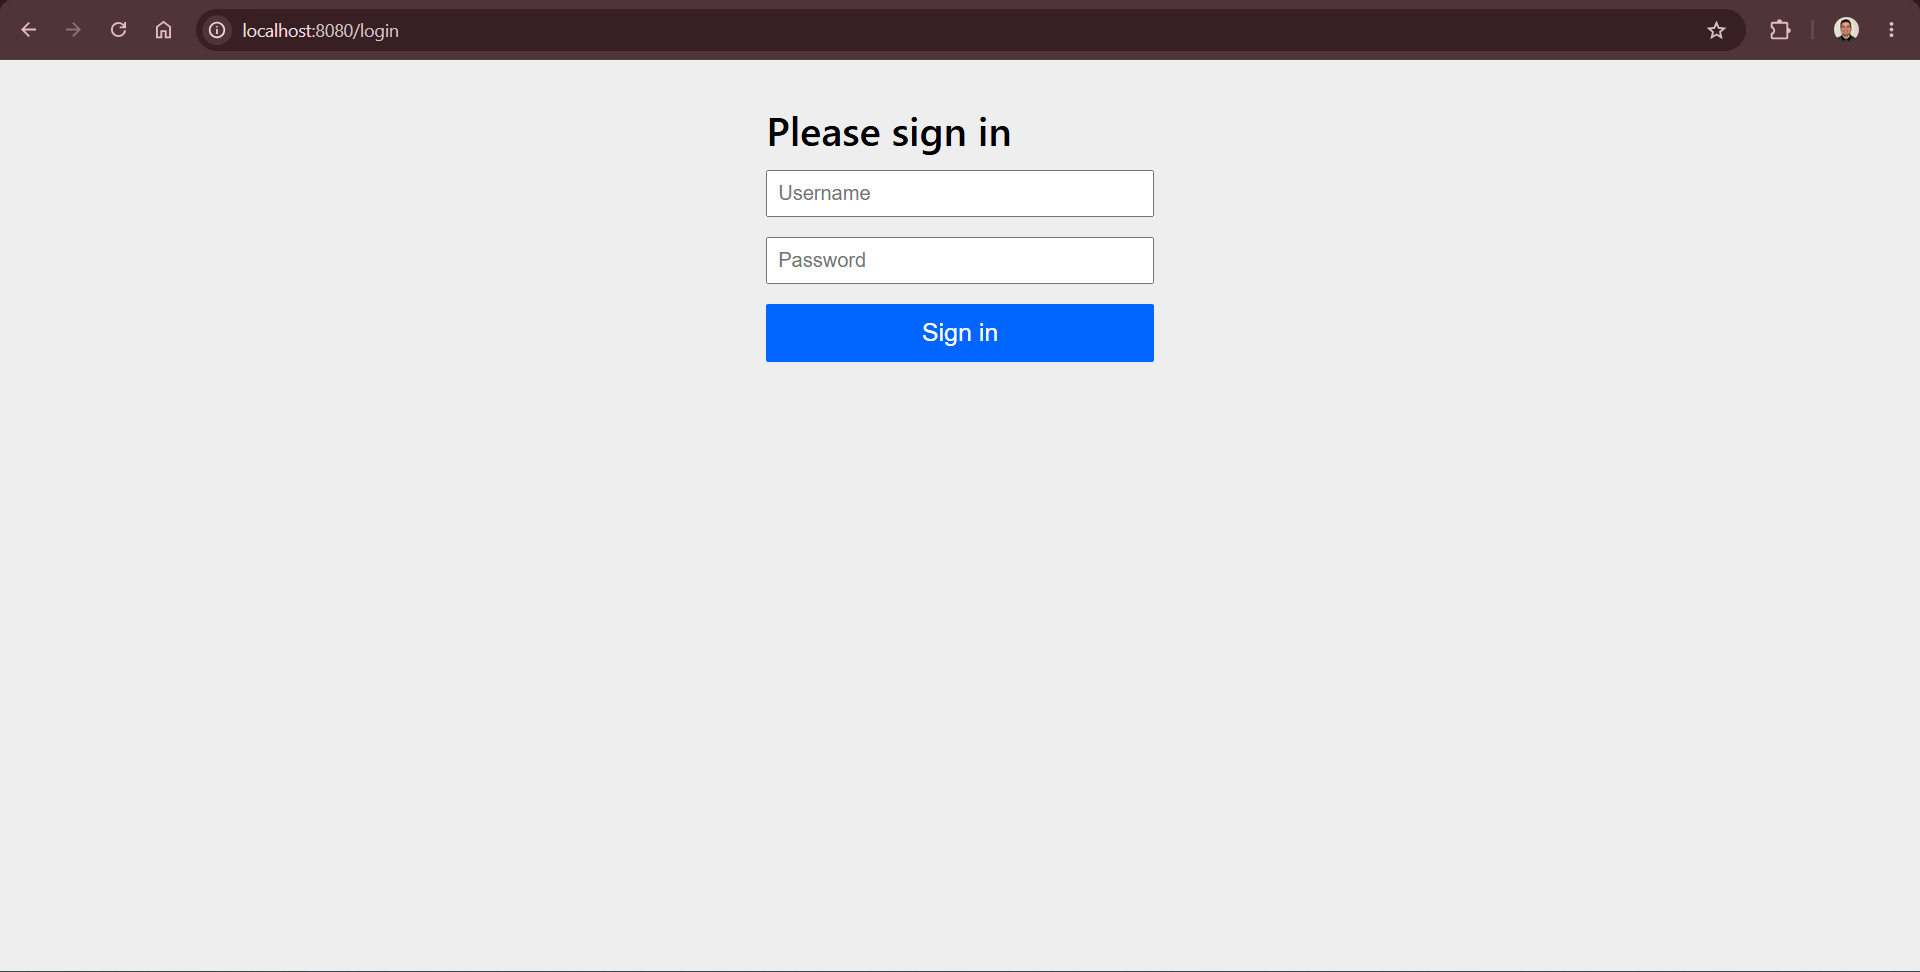
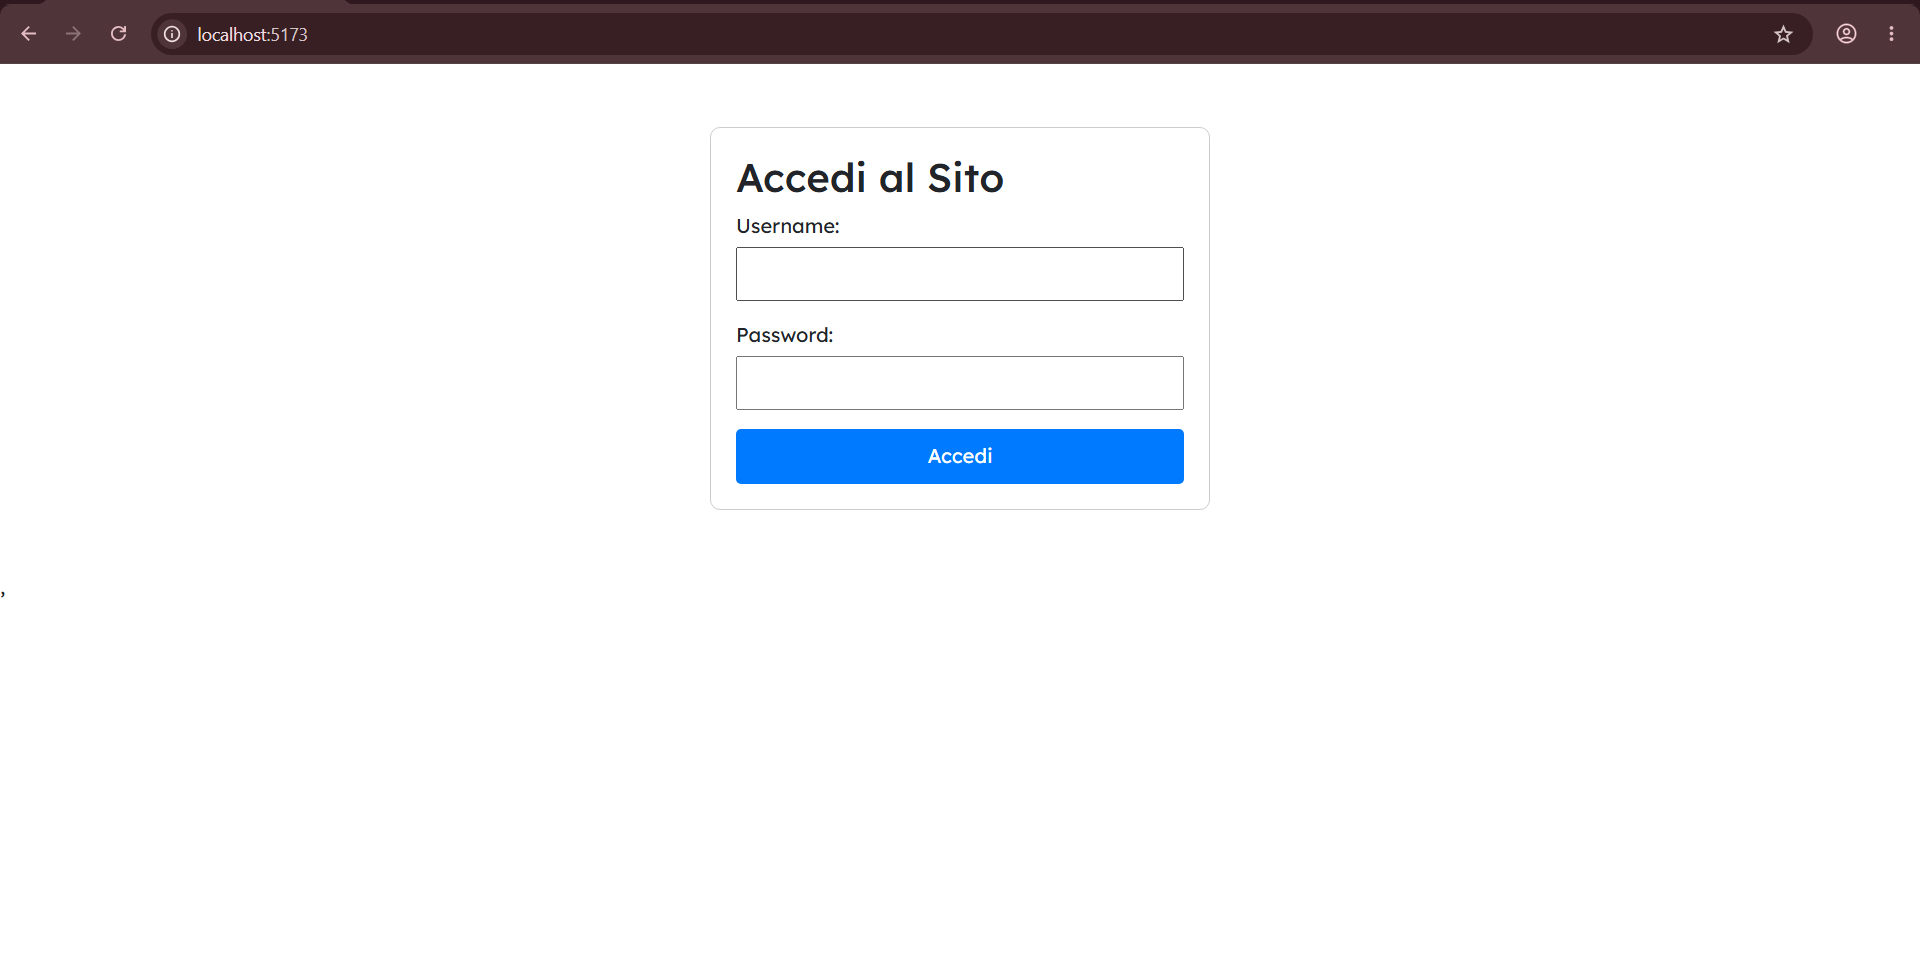
Improved the ReadMe file

diff --git a/README.md b/README.md
@@ -22,10 +22,12 @@ The creation page for both authors and books includes error handling for each in
 
 **Tools**: Git, npm, Maven, Visual Studio Code
 
-## Screenshot
+## Screenshot of the login interface
 
 ### Login page
 ![Java-Rest-Api login page](assets/JRA-login.png)
+
+## Screenshot of the Java and Spring Boot page - [Admin]
 
 ### Home page
 ![Java-Rest-Api home page](assets/JRA-home.png)
@@ -41,3 +43,14 @@ The creation page for both authors and books includes error handling for each in
 
 ### Errors handling
 ![Java-Rest-Api errors-handling](assets/JRA-errors.png)
+
+## Screenshot of the React page - [Guest]
+
+### Library page
+![Java-Rest-Api library page for guest](assets/JRA-library-guest.png)
+
+### Books list page
+![Java-Rest-Api books list page for guest](assets/JRA-books-list.png)
+
+### Authors list page
+![Java-Rest-Api authors page for guest](assets/JRA-authos-list.png)
